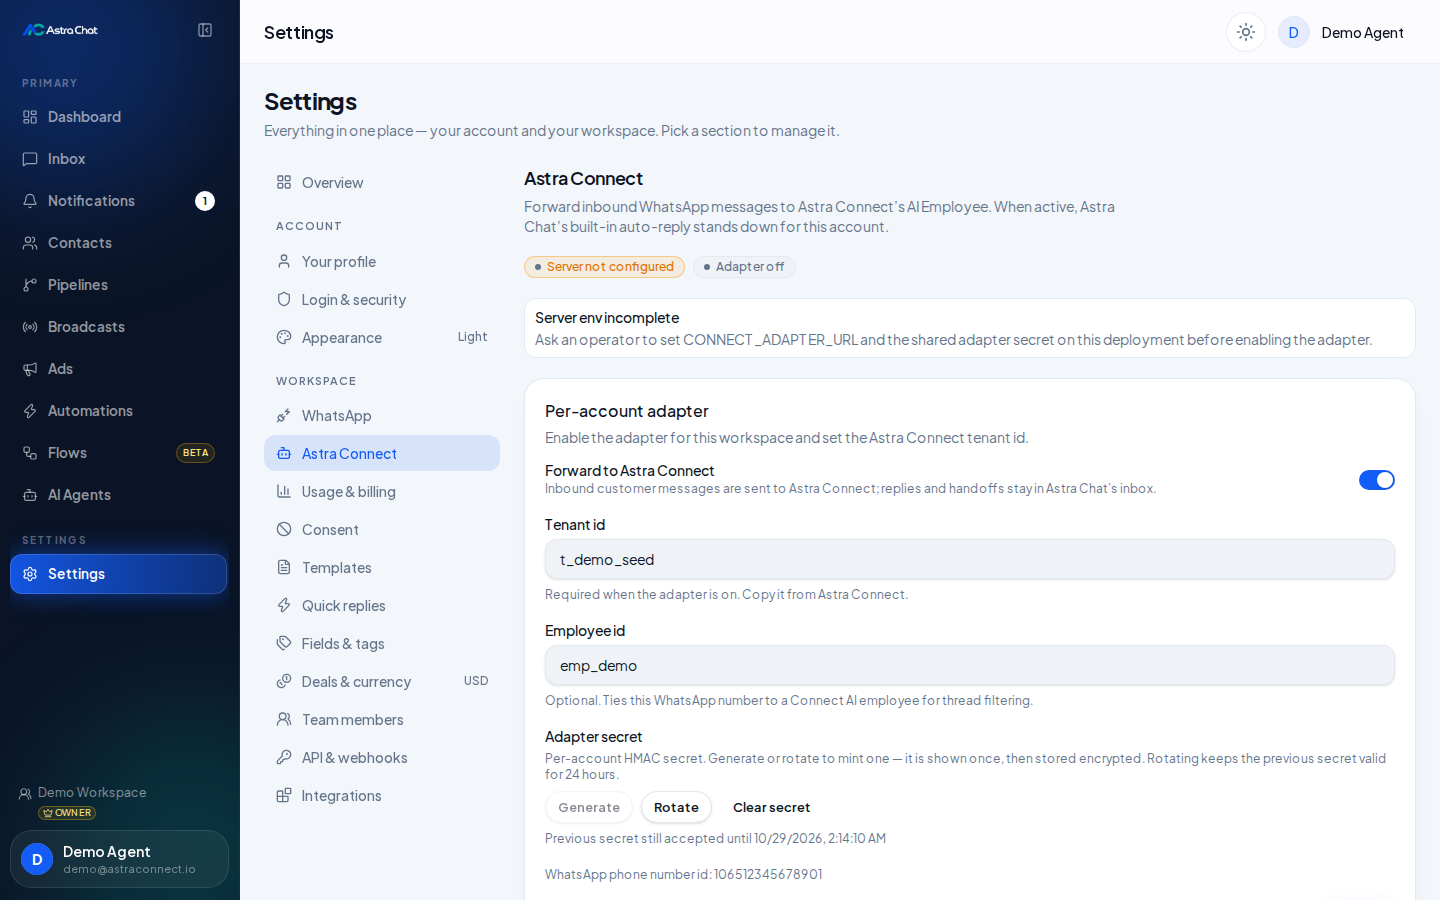
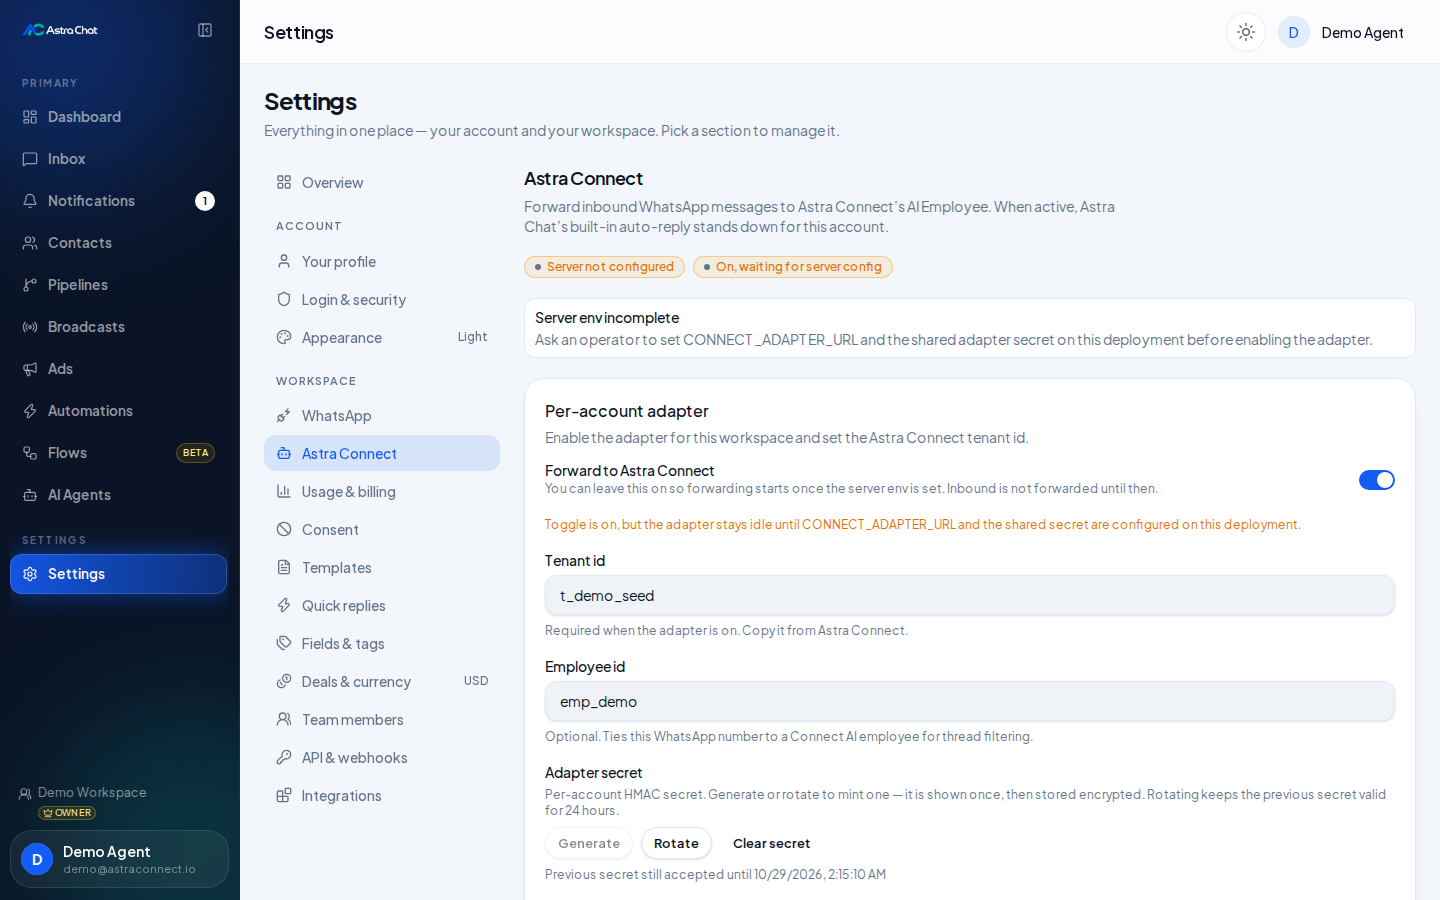
fix(4a): adapter status chip reflects toggle + server env
When Forward to Astra Connect is on but CONNECT_ADAPTER_URL is missing,
show "On, waiting for server config" instead of the contradictory
"Adapter off". Hint under the toggle; covered by adapter-status tests
and a retaken 4a screenshot.

Changed region(s): [[0.375, 0.7778, 0.9688, 0.9956], [0.375, 0.5289, 0.9062, 0.7467], [0.5, 0.28, 0.625, 0.3111]]

diff --git a/src/components/settings/astra-connect-settings.tsx b/src/components/settings/astra-connect-settings.tsx
@@ -28,6 +28,10 @@ import {
 import { Alert, AlertDescription, AlertTitle } from '@/components/ui/alert';
 import { RequireRole } from '@/components/auth/require-role';
 import { useAuth } from '@/hooks/use-auth';
+import {
+  astraConnectAdapterStatusMessageKey,
+  resolveAstraConnectAdapterStatus,
+} from '@/lib/astra-connect/adapter-status';
 import { SettingsPanelHead } from './settings-panel-head';
 import { SettingsChip, StatusDot } from './settings-chip';
 
@@ -207,8 +211,20 @@ export function AstraConnectSettings() {
   }
 
   const envOk = state?.env_configured === true;
-  const active =
-    envOk && state?.enabled === true && Boolean(state?.tenant_id);
+  // Prefer the live toggle (may differ from last saved state until Save).
+  const adapterStatus = resolveAstraConnectAdapterStatus({
+    enabled,
+    envConfigured: envOk,
+    tenantId,
+  });
+  const adapterStatusKey = astraConnectAdapterStatusMessageKey(adapterStatus);
+  const adapterChipVariant =
+    adapterStatus === 'active'
+      ? 'ok'
+      : adapterStatus === 'inactive'
+        ? 'muted'
+        : 'warn';
+  const adapterDotTone = adapterStatus === 'active' ? 'ok' : 'muted';
 
   return (
     <div>
@@ -220,9 +236,9 @@ export function AstraConnectSettings() {
             <StatusDot tone={envOk ? 'ok' : 'muted'} />
             {envOk ? t('statusEnvReady') : t('statusEnvMissing')}
           </SettingsChip>
-          <SettingsChip variant={active ? 'ok' : 'muted'}>
-            <StatusDot tone={active ? 'ok' : 'muted'} />
-            {active ? t('statusActive') : t('statusInactive')}
+          <SettingsChip variant={adapterChipVariant}>
+            <StatusDot tone={adapterDotTone} />
+            {t(adapterStatusKey)}
           </SettingsChip>
         </div>
 
@@ -250,7 +266,7 @@ export function AstraConnectSettings() {
               <div className="min-w-0">
                 <Label htmlFor="astra-connect-enabled">{t('enabledLabel')}</Label>
                 <p className="mt-1 text-xs text-muted-foreground">
-                  {t('enabledHint')}
+                  {!envOk ? t('enabledHintEnvMissing') : t('enabledHint')}
                 </p>
               </div>
               <Switch
@@ -258,8 +274,21 @@ export function AstraConnectSettings() {
                 checked={enabled}
                 onCheckedChange={setEnabled}
                 disabled={!canEditSettings || saving}
+                aria-describedby={
+                  !envOk && enabled
+                    ? 'astra-connect-enabled-hint'
+                    : undefined
+                }
               />
             </div>
+            {!envOk && enabled ? (
+              <p
+                id="astra-connect-enabled-hint"
+                className="text-xs text-amber-600 dark:text-amber-400"
+              >
+                {t('enabledWaitingServerHint')}
+              </p>
+            ) : null}
 
             <div className="flex flex-col gap-2">
               <Label htmlFor="astra-connect-tenant">{t('tenantLabel')}</Label>

diff --git a/src/lib/astra-connect/adapter-status.test.ts b/src/lib/astra-connect/adapter-status.test.ts
@@ -1,0 +1,50 @@
+import { describe, expect, it } from 'vitest';
+import {
+  astraConnectAdapterStatusMessageKey,
+  resolveAstraConnectAdapterStatus,
+} from './adapter-status';
+
+describe('resolveAstraConnectAdapterStatus', () => {
+  it('is inactive when the toggle is off — even if env is ready', () => {
+    expect(
+      resolveAstraConnectAdapterStatus({
+        enabled: false,
+        envConfigured: true,
+        tenantId: 't_1',
+      }),
+    ).toBe('inactive');
+  });
+
+  it('is waiting_server when toggle is on but server env is incomplete (item 4a UI)', () => {
+    expect(
+      resolveAstraConnectAdapterStatus({
+        enabled: true,
+        envConfigured: false,
+        tenantId: 't_demo_seed',
+      }),
+    ).toBe('waiting_server');
+    expect(
+      astraConnectAdapterStatusMessageKey('waiting_server'),
+    ).toBe('statusWaitingServer');
+  });
+
+  it('is waiting_tenant when toggle + env are ready but tenant id is blank', () => {
+    expect(
+      resolveAstraConnectAdapterStatus({
+        enabled: true,
+        envConfigured: true,
+        tenantId: '  ',
+      }),
+    ).toBe('waiting_tenant');
+  });
+
+  it('is active only when toggle, env, and tenant are all set', () => {
+    expect(
+      resolveAstraConnectAdapterStatus({
+        enabled: true,
+        envConfigured: true,
+        tenantId: 't_1',
+      }),
+    ).toBe('active');
+  });
+});

diff --git a/src/lib/astra-connect/adapter-status.ts b/src/lib/astra-connect/adapter-status.ts
@@ -1,0 +1,42 @@
+/**
+ * Derive the Settings → Astra Connect adapter status chip from the
+ * per-account toggle plus server env (and tenant) — never claim "off"
+ * when the toggle is on.
+ */
+
+export type AstraConnectAdapterStatus =
+  | 'active'
+  | 'waiting_server'
+  | 'waiting_tenant'
+  | 'inactive';
+
+export function resolveAstraConnectAdapterStatus(args: {
+  enabled: boolean;
+  envConfigured: boolean;
+  tenantId: string | null | undefined;
+}): AstraConnectAdapterStatus {
+  if (!args.enabled) return 'inactive';
+  if (!args.envConfigured) return 'waiting_server';
+  if (!args.tenantId?.trim()) return 'waiting_tenant';
+  return 'active';
+}
+
+/** i18n key under Settings.astraConnect for the adapter status chip. */
+export function astraConnectAdapterStatusMessageKey(
+  status: AstraConnectAdapterStatus,
+):
+  | 'statusActive'
+  | 'statusWaitingServer'
+  | 'statusWaitingTenant'
+  | 'statusInactive' {
+  switch (status) {
+    case 'active':
+      return 'statusActive';
+    case 'waiting_server':
+      return 'statusWaitingServer';
+    case 'waiting_tenant':
+      return 'statusWaitingTenant';
+    case 'inactive':
+      return 'statusInactive';
+  }
+}
